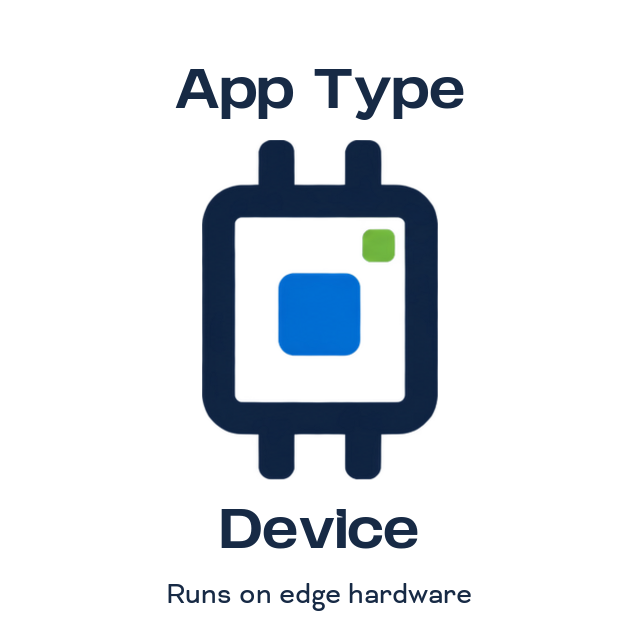
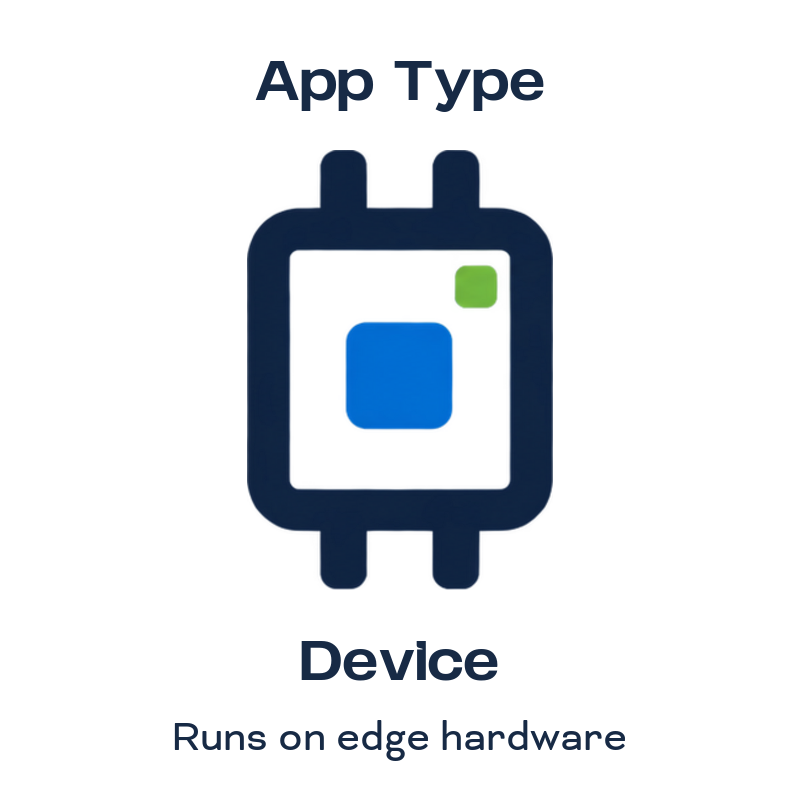
docs: update Node-RED badges to latest artwork

diff --git a/README.md b/README.md
@@ -5,8 +5,8 @@ Run the Node-RED flow editor and runtime on a Doovit, and wire its flows straigh
 ---
 
 <p align="left">
-  <img src="https://raw.githubusercontent.com/getdoover/doover-node-red/main/assets/app-types/app-type-device-coloured.png?v=b32d92a2476b" alt="App Type: Device — Runs on edge hardware" align="left" width="180" height="180">
-  <img src="https://raw.githubusercontent.com/getdoover/doover-node-red/main/assets/app-types/ui-interface-coloured.png?v=9274872e15c7" alt="UI: Interface — Has a User Interface" align="left" width="180" height="180">
+  <img src="https://raw.githubusercontent.com/getdoover/doover-node-red/main/assets/app-types/app-type-device-coloured.png?v=cf880f3d16a5" alt="App Type: Device — Runs on edge hardware" align="left" width="180" height="180">
+  <img src="https://raw.githubusercontent.com/getdoover/doover-node-red/main/assets/app-types/ui-interface-coloured.png?v=f52f45b2e686" alt="UI: Interface — Has a User Interface" align="left" width="180" height="180">
   <br clear="all">
 </p>
 
